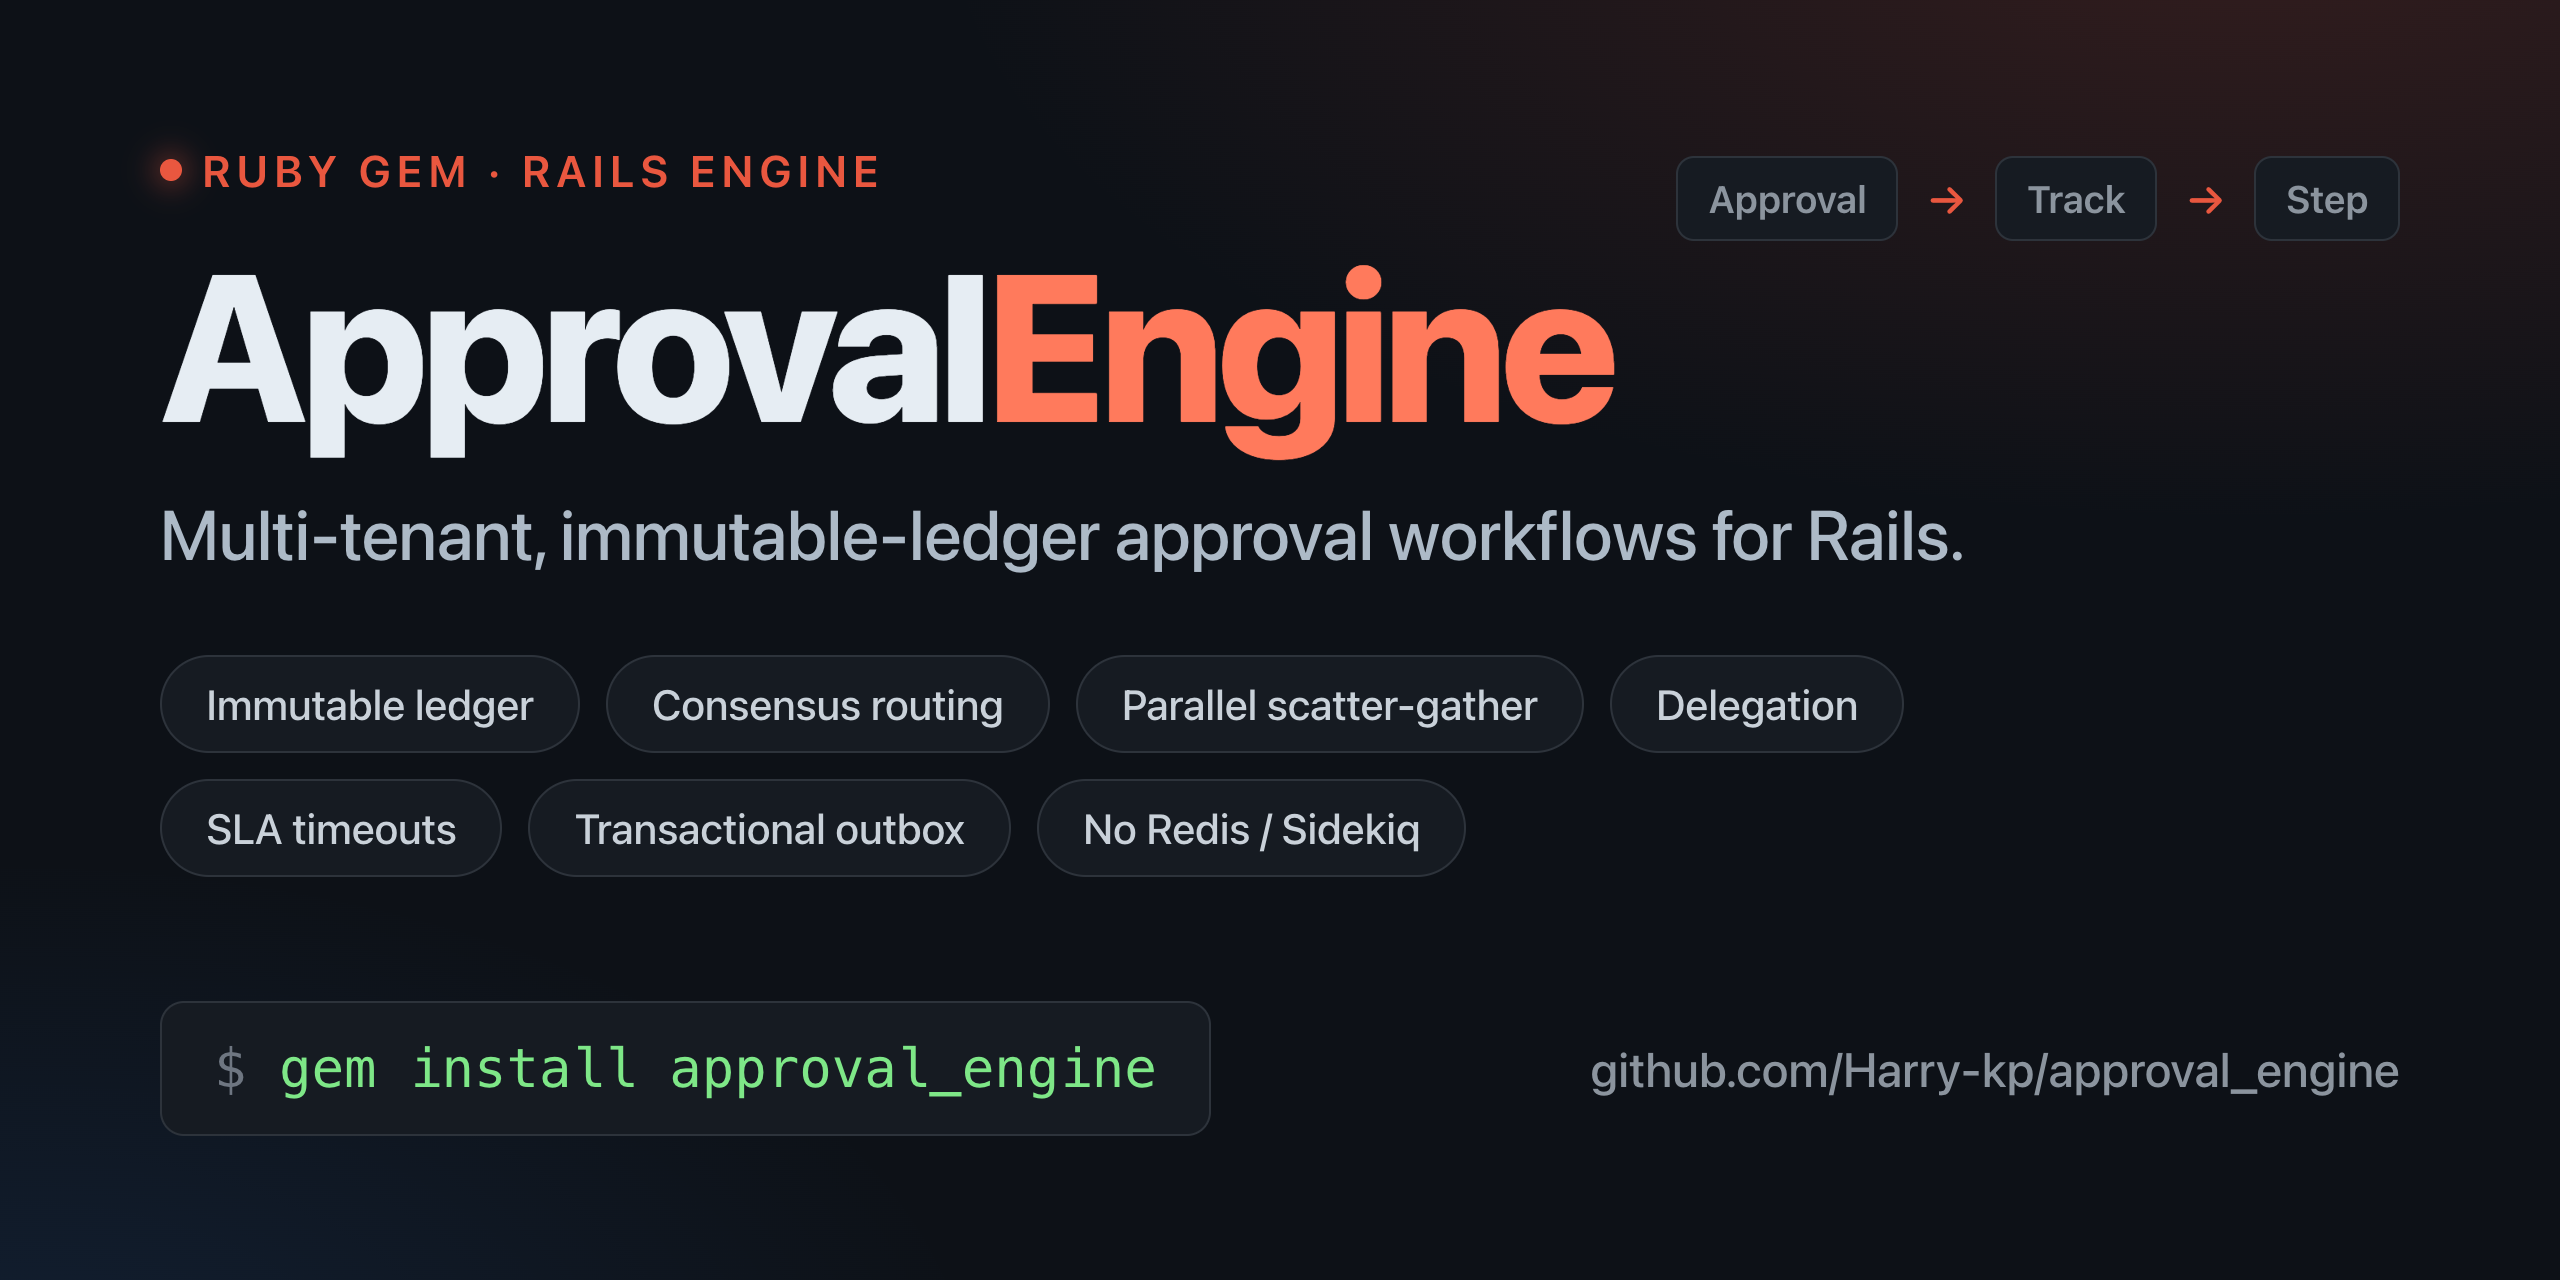
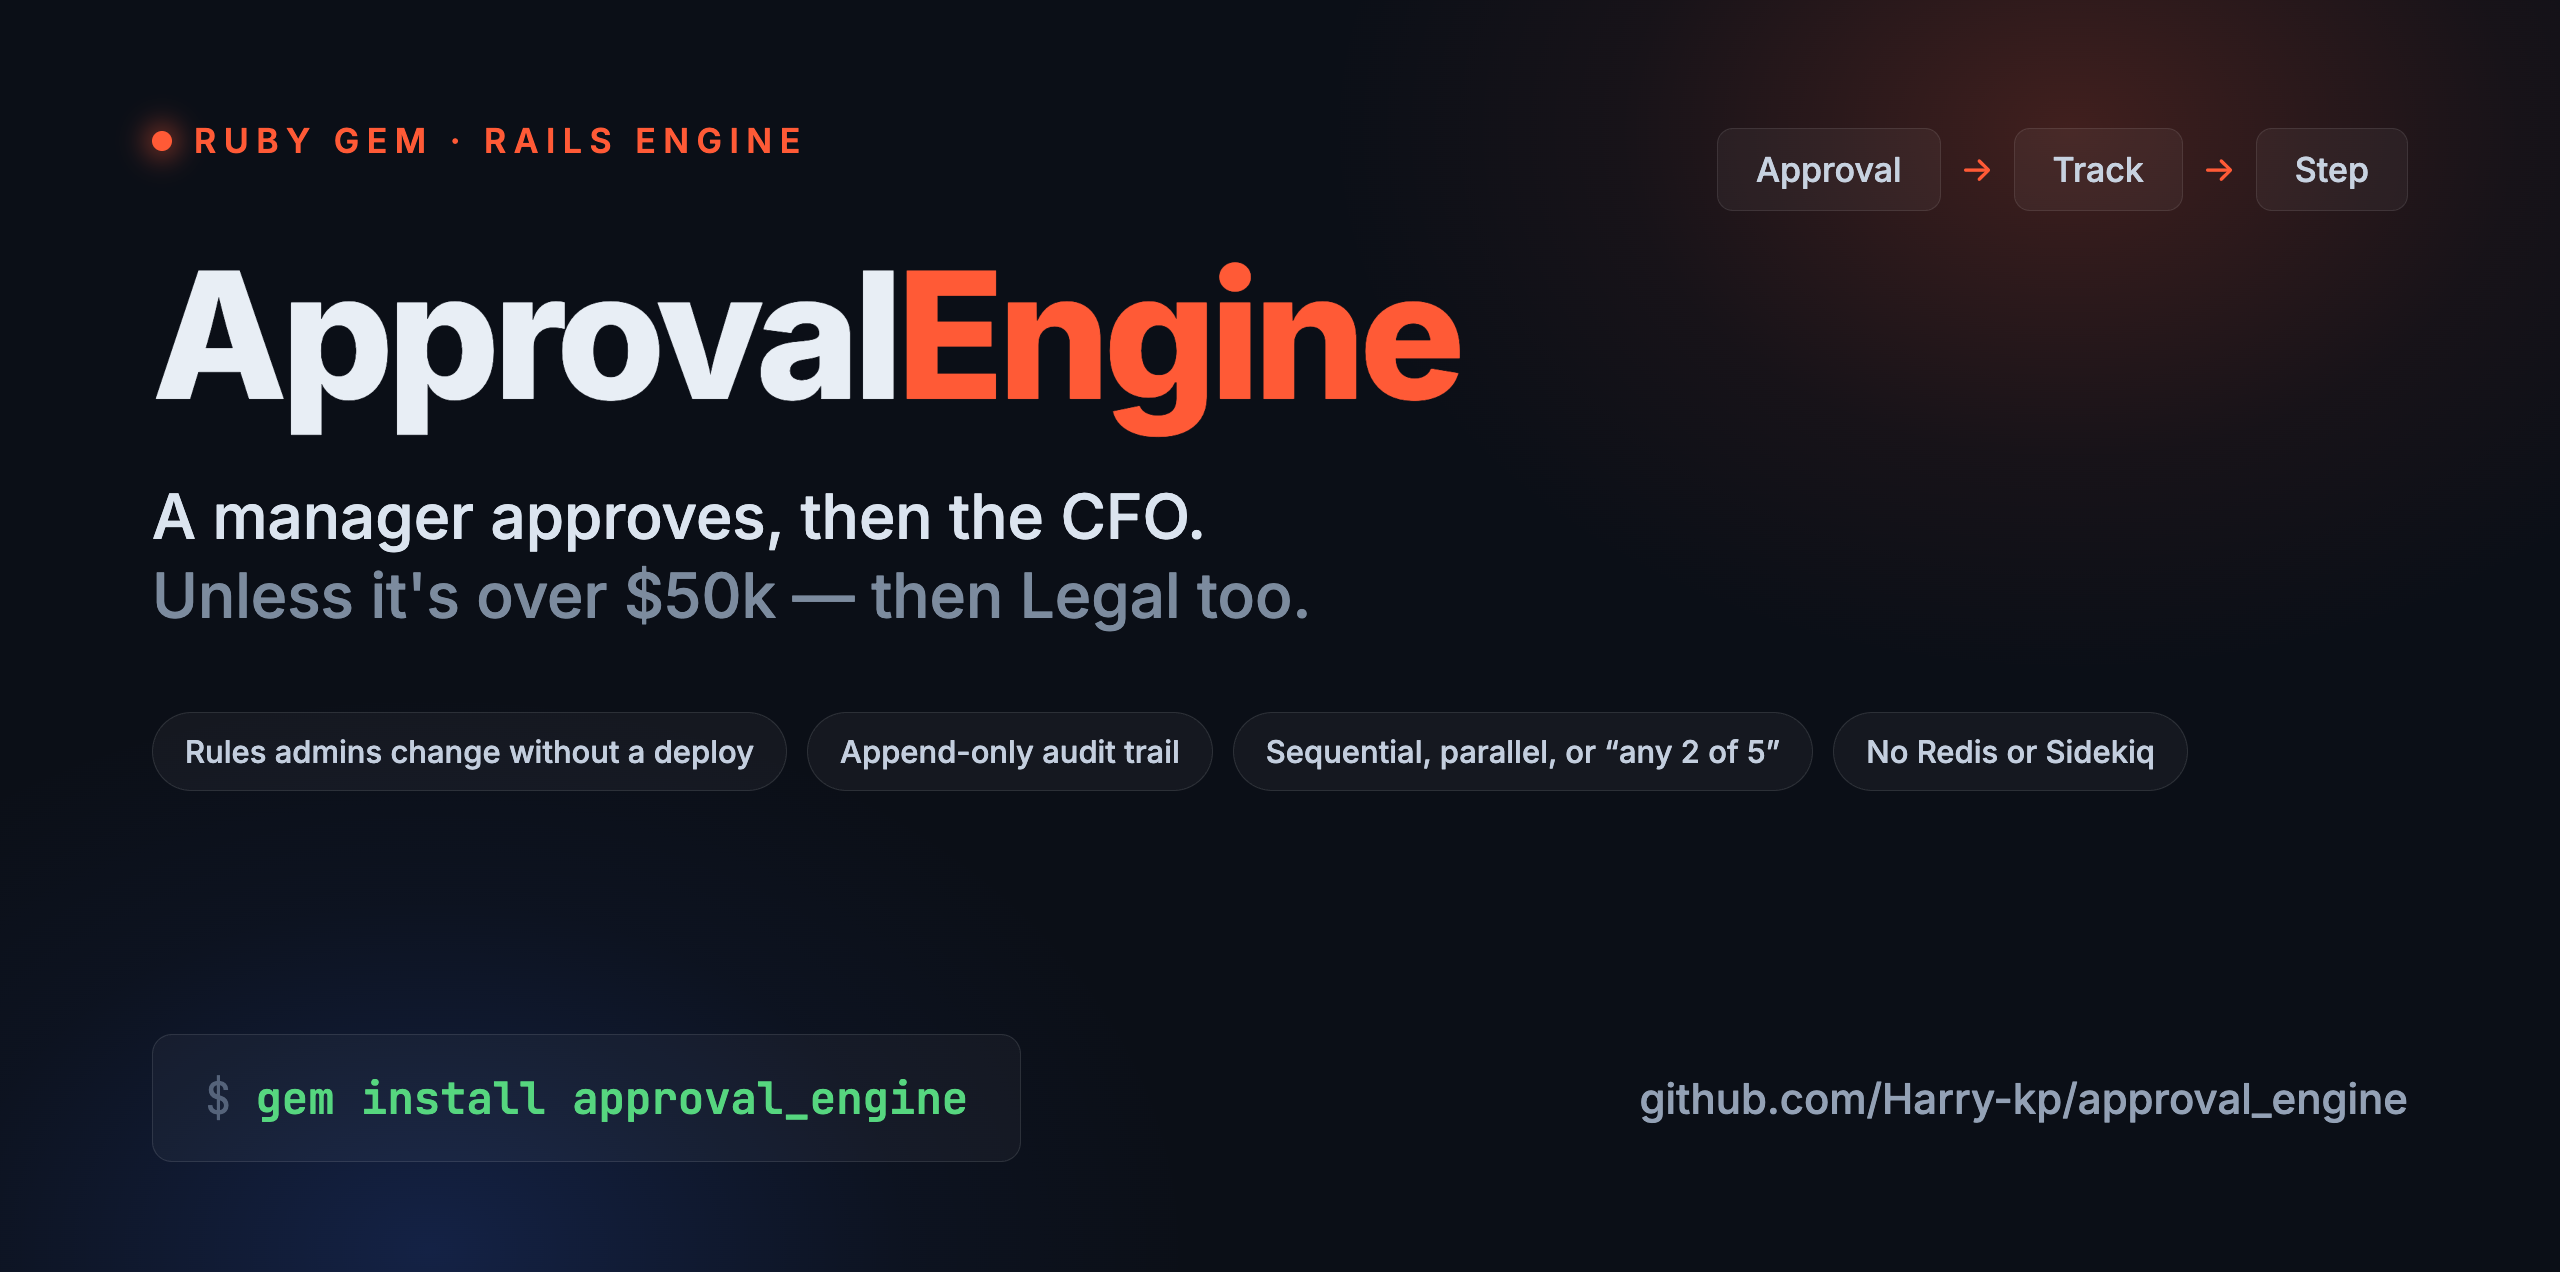
chore: repitch the social preview card, and commit its source
Every link shared to Slack, Reddit, HN or Twitter renders this card, so it
is the most-seen asset of a launch. It led with "Multi-tenant,
immutable-ledger approval workflows" — an accurate description of the
machinery, aimed at someone who already knows they want it.

It now leads with the job: "A manager approves, then the CFO. Unless it's
over $50k — then Legal too." The chips describe outcomes rather than
mechanisms, for the same reason.

The card was previously an opaque PNG with no source. The HTML that
generates it now lives beside it, so the next repitch is an edit rather
than a redraw. assets/ is outside spec.files, so neither ships in the gem.

diff --git a/assets/social-preview.html b/assets/social-preview.html
@@ -1,0 +1,123 @@
+<!doctype html>
+<html>
+<head>
+<meta charset="utf-8">
+<link rel="preconnect" href="https://fonts.googleapis.com">
+<link rel="preconnect" href="https://fonts.gstatic.com" crossorigin>
+<link href="https://fonts.googleapis.com/css2?family=Inter:wght@400;500;600;800&family=JetBrains+Mono:wght@400;600&display=swap" rel="stylesheet">
+<style>
+  * { box-sizing: border-box; margin: 0; padding: 0; }
+
+  body {
+    width: 2560px;
+    height: 1280px;
+    background: #0b0f17;
+    font-family: Inter, -apple-system, BlinkMacSystemFont, "Segoe UI", sans-serif;
+    color: #e8eef5;
+    overflow: hidden;
+    position: relative;
+  }
+
+  /* The two glows from the original card: a warm one bleeding in from the top
+     right, a cool one anchoring the bottom left. */
+  .glow-warm {
+    position: absolute; top: -420px; right: -260px;
+    width: 1500px; height: 1100px;
+    background: radial-gradient(ellipse at center, rgba(255,90,54,.22) 0%, rgba(255,90,54,.05) 42%, transparent 70%);
+  }
+  .glow-cool {
+    position: absolute; bottom: -520px; left: -320px;
+    width: 1500px; height: 1100px;
+    background: radial-gradient(ellipse at center, rgba(56,110,255,.20) 0%, rgba(56,110,255,.04) 45%, transparent 72%);
+  }
+
+  .frame { position: relative; padding: 120px 152px 118px; height: 100%; display: flex; flex-direction: column; }
+
+  .eyebrow {
+    display: flex; align-items: center; gap: 22px;
+    font-size: 34px; font-weight: 600; letter-spacing: .22em;
+    color: #ff5a36; text-transform: uppercase;
+  }
+  .dot {
+    width: 20px; height: 20px; border-radius: 50%; background: #ff5a36;
+    box-shadow: 0 0 26px 8px rgba(255,90,54,.45);
+  }
+
+  .chain { position: absolute; top: 128px; right: 152px; display: flex; align-items: center; gap: 20px; }
+  .node {
+    padding: 20px 38px; border-radius: 16px;
+    background: rgba(255,255,255,.045); border: 1px solid rgba(255,255,255,.09);
+    font-size: 34px; font-weight: 500; color: #c7d2e0;
+  }
+  .arrow { color: #ff5a36; font-size: 36px; }
+
+  h1 {
+    margin-top: 86px;
+    font-size: 176px; font-weight: 800; letter-spacing: -.035em; line-height: 1;
+  }
+  h1 .accent { color: #ff5a36; }
+
+  /* The pitch is the pain, in the customer's words — not the architecture.
+     The old card led with "Multi-tenant, immutable-ledger", which describes
+     the machinery to someone who already knows they want it. */
+  .pitch {
+    margin-top: 54px;
+    font-size: 62px; font-weight: 500; line-height: 1.28; color: #dbe4ef;
+    max-width: 1900px;
+  }
+  .pitch .dim { color: #7c8b9e; }
+
+  .chips { margin-top: 76px; display: flex; flex-wrap: nowrap; gap: 20px; }
+  .chip {
+    padding: 20px 32px; border-radius: 999px; white-space: nowrap;
+    background: rgba(255,255,255,.04); border: 1px solid rgba(255,255,255,.10);
+    font-size: 31px; font-weight: 500; color: #c3cede;
+  }
+
+  .footer { margin-top: auto; display: flex; align-items: center; justify-content: space-between; }
+  .install {
+    display: flex; align-items: center; gap: 24px;
+    padding: 34px 52px; border-radius: 20px;
+    background: rgba(255,255,255,.035); border: 1px solid rgba(255,255,255,.10);
+    font-family: "JetBrains Mono", ui-monospace, SFMono-Regular, Menlo, monospace;
+    font-size: 44px;
+  }
+  .install .prompt { color: #55637a; }
+  .install .cmd { color: #56d67f; font-weight: 600; }
+  .repo { font-size: 42px; color: #93a1b5; font-weight: 500; }
+</style>
+</head>
+<body>
+  <div class="glow-warm"></div>
+  <div class="glow-cool"></div>
+
+  <div class="frame">
+    <div class="eyebrow"><span class="dot"></span> Ruby gem · Rails engine</div>
+
+    <div class="chain">
+      <div class="node">Approval</div><span class="arrow">→</span>
+      <div class="node">Track</div><span class="arrow">→</span>
+      <div class="node">Step</div>
+    </div>
+
+    <h1>Approval<span class="accent">Engine</span></h1>
+
+    <div class="pitch">
+      A manager approves, then the CFO.<br>
+      <span class="dim">Unless it's over $50k — then Legal too.</span>
+    </div>
+
+    <div class="chips">
+      <div class="chip">Rules admins change without a deploy</div>
+      <div class="chip">Append-only audit trail</div>
+      <div class="chip">Sequential, parallel, or “any 2 of 5”</div>
+      <div class="chip">No Redis or Sidekiq</div>
+    </div>
+
+    <div class="footer">
+      <div class="install"><span class="prompt">$</span><span class="cmd">gem install approval_engine</span></div>
+      <div class="repo">github.com/Harry-kp/approval_engine</div>
+    </div>
+  </div>
+</body>
+</html>
